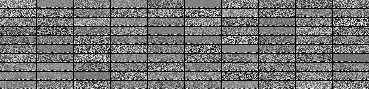
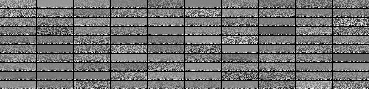
trying dA 145860 x 100 epochs

diff --git a/code/load_mp3.py b/code/load_mp3.py
@@ -57,7 +57,7 @@ def load_data(dataset):
             pass
     
     # corpus size
-    (TRAIN, VALID, TEST) = (60, 1, 1)
+    (TRAIN, VALID, TEST) = (1, 0, 0)
     SIZE = len(frames) // (TRAIN+VALID+TEST)
     (TRAIN, VALID, TEST) = (TRAIN * SIZE, VALID * SIZE, TEST * SIZE)
     print 'frames =', len(frames), 'TRAIN = ', TRAIN
@@ -116,29 +116,31 @@ def load_data(dataset):
 
 
 if __name__ == "__main__":    
+    import PIL.Image
     d = "/home/dmitry/mp3/01- Hitchhikers Guide to the Galaxy"
     dataset = sorted([os.path.join(d, f) for f in os.listdir(d)])
-    dataset = ["/home/dmitry/mp3/hhgttg01010060.mp3"]
+    dataset = ["/home/dmitry/mp3/440-1k-2k.mp3"]
 
     # lame --preset cbr 48kbit -m mono
     ((train_set_x, train_set_y), (valid_set_x,valid_set_y), (test_set_x, test_set_y)) = \
         load_data(dataset[:1])
         
-    from pca import pca
-    V,S,immean = pca(train_set_x.value[0:200])
-    train_set_x.value = V
-    print V
+    #from pca import pca
+    #V,S,immean = pca(train_set_x.value[0:200])
+    #train_set_x.value = V
+    #print V
     
     #matplotlib.pyplot.imshow(V[0].reshape(S_DIM, F_DIM * X_DIM).T)
     #matplotlib.pyplot.imshow(train_set_x.value[0].reshape(S_DIM, F_DIM * X_DIM), vmin = 0.0, vmax = 1.0)
     #matplotlib.pyplot.show()
        
-    #print "len(train_set_x)", len(train_set_x)
-    tN = 200
+    tN = 499
     print "len(train_set_x.value.T)", len(train_set_x.value)
     for i in xrange(len(train_set_x.value)//tN):
         arr = tile_raster_images( X = train_set_x.value[i*tN:i*tN+tN],
                                   img_shape = (S_DIM, F_DIM * X_DIM),tile_shape = (tN//10,10),
                                   tile_spacing=(1,1), scale_rows_to_unit_interval = False,
-                                  output_pixel_vals = False)
-        matplotlib.pyplot.imsave(fname = 'hhgttg010100%d.png' % i, arr = arr)#, vmin = 0.0, vmax = 1.0)
+                                  output_pixel_vals = True)
+        #matplotlib.pyplot.imsave(fname = 'hhgttg010100%d.png' % i, arr = arr)#, vmin = 0.0, vmax = 1.0)
+        PIL.Image.fromarray(arr).save('hhgttg010100%d.png' % i)
+

diff --git a/code/dA.py b/code/dA.py
@@ -351,5 +351,5 @@ if __name__ == "__main__":
     d = "/home/dmitry/mp3/01- Hitchhikers Guide to the Galaxy"
     dataset = sorted([os.path.join(d, f) for f in os.listdir(d)])
     #dataset = ["/home/dmitry/mp3/hhgttg01010060.mp3"]
-    test_dA(dataset = dataset[:5], training_epochs = 25)
+    test_dA(dataset = dataset[:5], training_epochs = 100)
 
